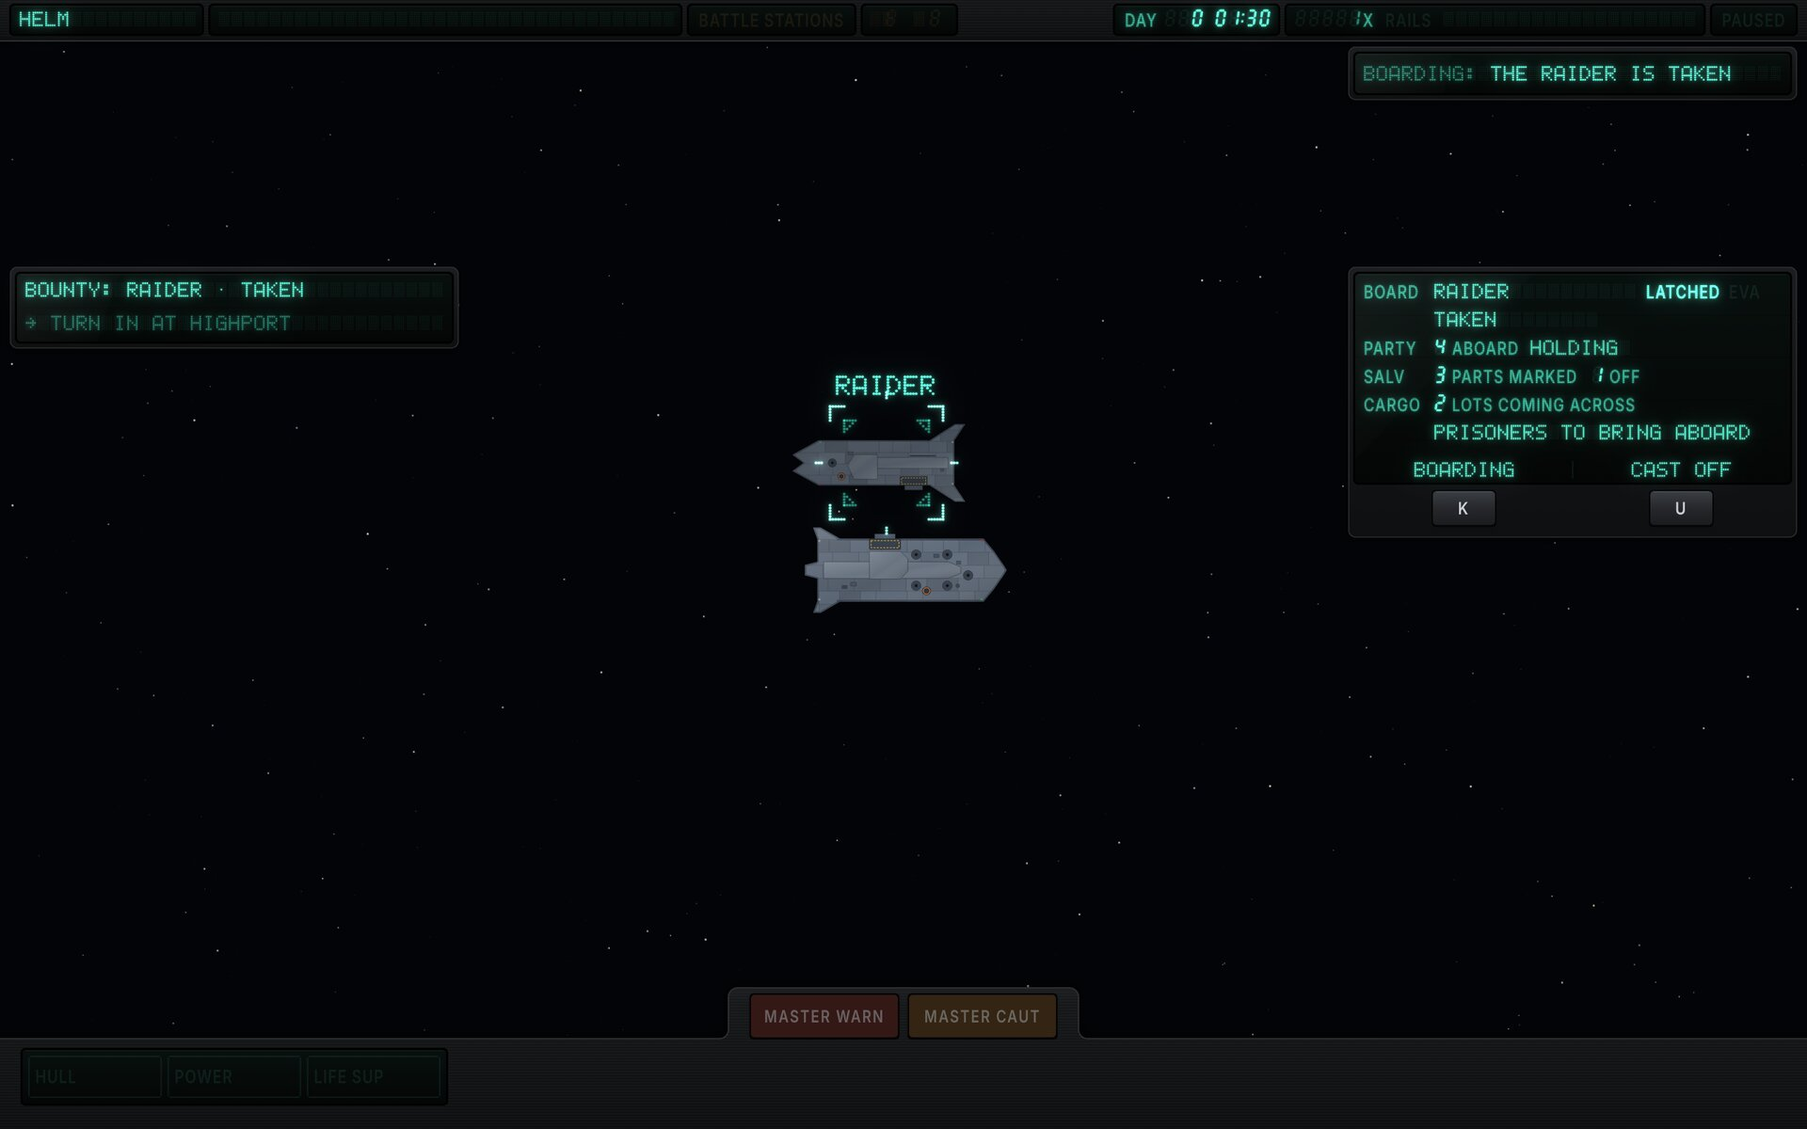
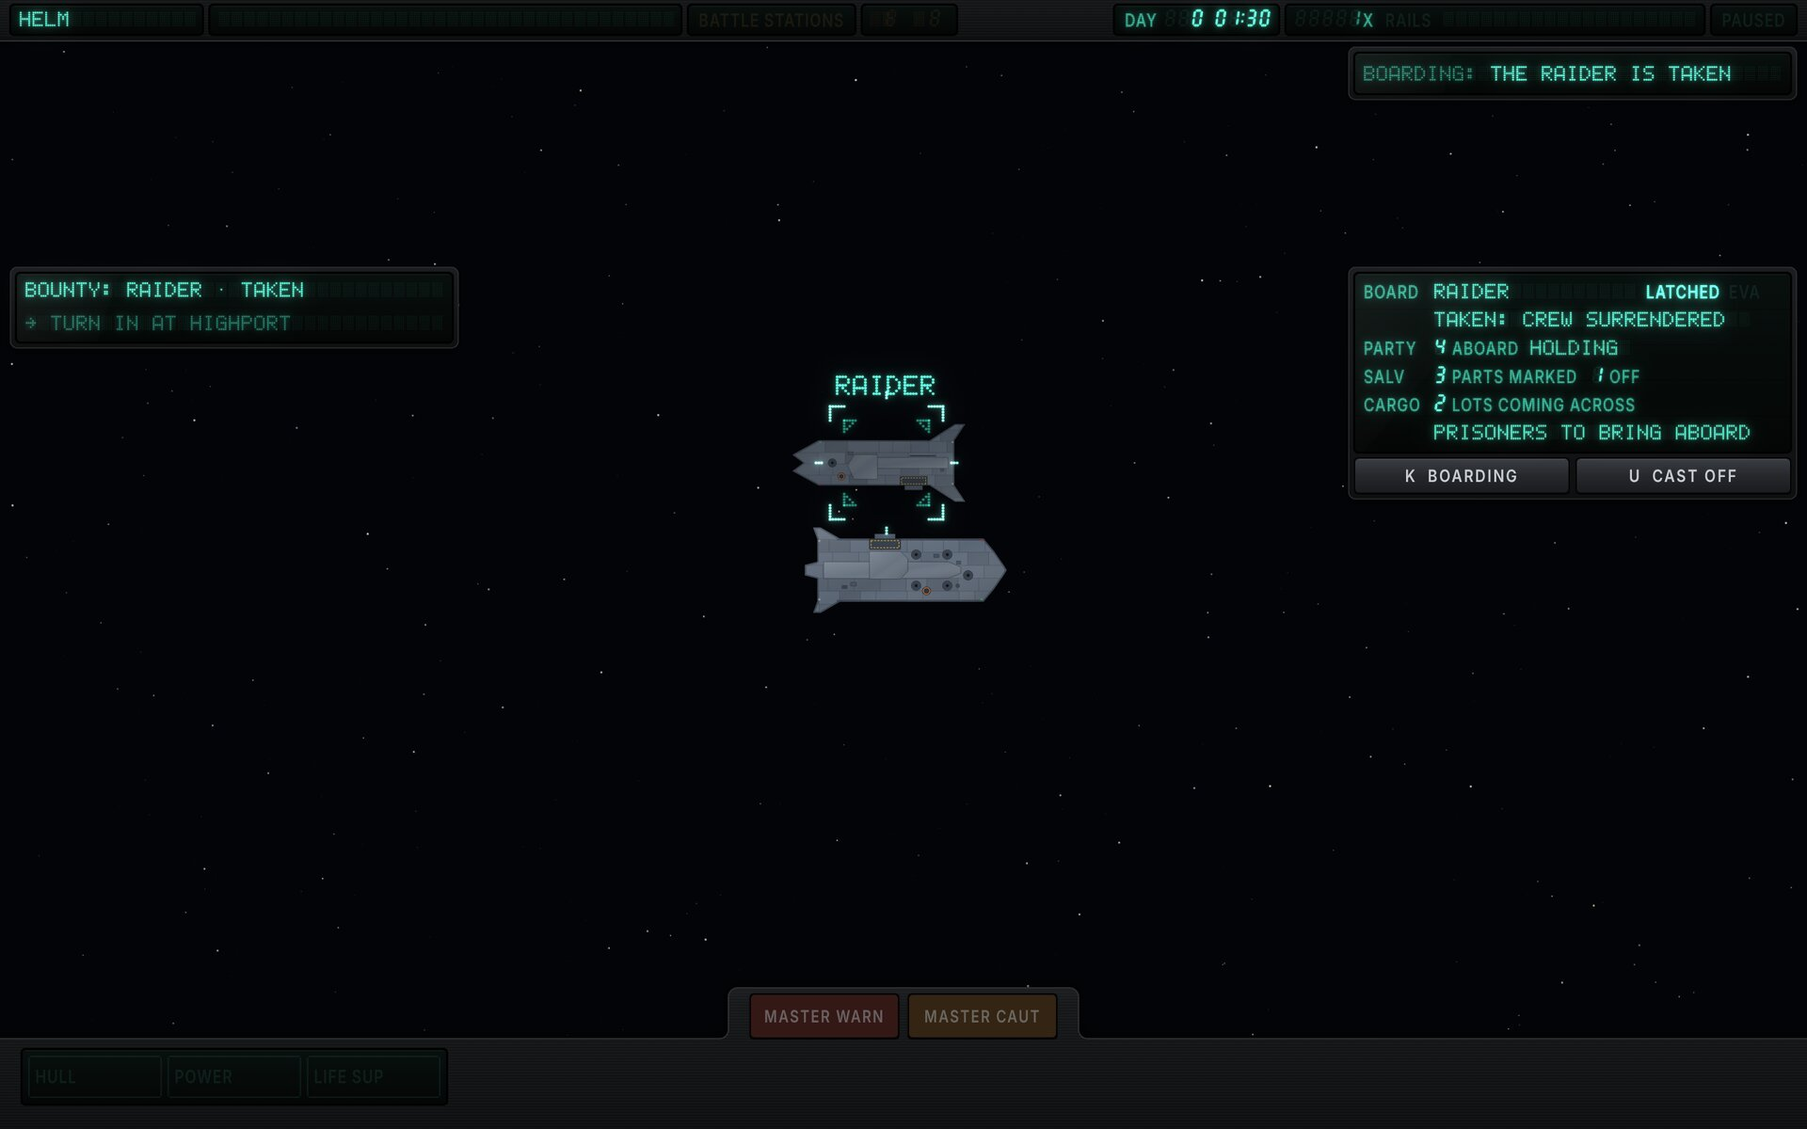
Round 3 of the FILAMENT variations: all three converge
Each spec took every round-2 note, so the variations follow the new
revisions and nothing meaningful is left to criticise:

- Stations (spec round 9): callouts capped at 50 characters, so E's
  Cole line is shorter; the blank slot and +n MORE placement already
  matched FILAMENT's.
- Task (spec round 5): short forms split at a double space, a reserved
  +n slot, screens below the band, the prompt naming its object once,
  all as FILAMENT already drew them.
- Context (spec version 5): P2 lists NO POWER DAMAGED third, X2's
  state has its own row, and X2's keys now carry their actions so the
  slab fits its 150-unit zone within the allowed 10%.

The round log and the three variation pages record the round.

Claude-Session: https://claude.ai/code/session_019poqwVjy4cV7sgFctDBjVK

Changed region(s): [[0.75, 0.4008, 1.0, 0.4625], [0.8438, 0.2775, 0.9688, 0.3083]]

diff --git a/documentation/ui-overhaul/vfd/src/context.js b/documentation/ui-overhaul/vfd/src/context.js
@@ -340,9 +340,10 @@
   }
 
   // ------------------------------------------------------------------ X2 boarding, X3 emergency
-  // X2: the boarding at a glance, and its two keys as soft keys: labels on the glass, rubber keys below.
+  // X2: the boarding at a glance in six rows of glass, and its two keys under it, each printed with its
+  // action as the station board's are (7 rows in all, 308 x 155: the spec's 150 within its 10%).
   function x2(S, y, d) {
-    const x = RX, rows = 6, gh = rows * ROW + 6 + 22, h = gh + 34;
+    const x = RX, rows = 6, gh = rows * ROW + 6, h = gh + 5 + 24;
     K.plate(S, x, y, CW, h, { pad: 5 });
     S.module(x, y, CW, gh, { radius: 2.5 });
     let ry = y + 3;
@@ -352,7 +353,7 @@
     S.dm(vx, B(ry) - 10.5, d.name, { pitch: P, cells: 16, level: 'norm' });
     K.fits(K.states(S, vx + 16 * CELL + 6, B(ry), [['LATCHED', d.latched && 'norm'], ['EVA', !d.latched && 'norm']], { size: 13, gap: 6 }) - 6, x + CW - 4, 'X2 board');
     ry += ROW;
-    S.dm(vx, B(ry) - 10.5, d.state, { pitch: P, cells: 13, level: 'norm' });
+    S.dm(vx, B(ry) - 10.5, d.state, { pitch: P, cells: 25, level: 'norm' });
     ry += ROW;
     lab('PARTY');
     let cx = vx + S.seg7(vx, B(ry) - 12, 12, d.party, { cells: 1, level: 'norm' }) + 6;
@@ -370,14 +371,10 @@
     S.legend(cx, B(ry), 'LOTS COMING ACROSS', { level: 'dim' });
     ry += ROW;
     S.dm(vx, B(ry) - 10.5, d.prisoners ? 'PRISONERS TO BRING ABOARD' : '', { pitch: P, cells: 25, level: 'norm' });
-    // soft keys: the action on the glass's bottom row, the key under it
-    const ky = y + gh + 6, ly = y + gh - 4 - 7 * P;
-    for (const [i, k, t] of [[0, 'K', 'BOARDING'], [1, 'U', 'CAST OFF']]) {
-      const sx = x + CW / 4 + i * CW / 2;
-      S.dm(sx - S.dmWidth(t.length, { pitch: P }) / 2, ly, t, { pitch: P, level: 'norm', ghost: false });
-      S.key(sx - 22, ky, 44, 24, k);
-    }
-    S.rectLit(x + CW / 2 - 0.4, ly - 1, 0.8, 7 * P + 2, { ghostOnly: true, k: 1.5 });
+    // the two keys under the glass, each printed with its key and action
+    const ky = y + gh + 5, kw = (CW - 6) / 2;
+    S.key(x, ky, kw, 24, 'K  BOARDING');
+    S.key(x + kw + 6, ky, kw, 24, 'U  CAST OFF');
   }
   // X3: a red bar with the state cut out of it; each way out on its own row, its key on the bezel beside
   // it with an LED that blinks amber while the first press holds (guide 7.7).
@@ -506,9 +503,9 @@
     p2(S, [
       { sev: 'warning', code: 'EMERG O2', you: true },
       { sev: 'warning', code: 'VACUUM', detail: 'HOLD', you: true },
+      { sev: 'warning', code: 'NO POWER', detail: 'DAMAGED', you: true },
       { sev: 'warning', code: 'CREW CRIT', detail: 'ADA', crew: 1, timer: '3:40' },
       { sev: 'warning', code: 'FIRE', detail: 'BRIDGE', crew: 2 },
-      { sev: 'warning', code: 'NO POWER', detail: 'STUNNED', back: '0:12' },
     ], '+1 MORE: SMOKE');
     x3(S, { title: 'SHIP DISABLED: NO POWER', rows: [
       { what: 'ABANDON SHIP', key: 'P' },
@@ -543,7 +540,7 @@
     bottomRack(S, { tower: false });
     p4(S, [['BOARDING', 'THE RAIDER IS TAKEN']]);
     p5(S, { l1: 'BOUNTY: RAIDER · TAKEN', l2: '→ TURN IN AT HIGHPORT' });
-    x2(S, 194, { name: 'RAIDER', latched: true, state: 'TAKEN', party: '4', partyState: 'HOLDING', marked: '3', off: '1', lots: '2', prisoners: true });
+    x2(S, 194, { name: 'RAIDER', latched: true, state: 'TAKEN: CREW SURRENDERED', party: '4', partyState: 'HOLDING', marked: '3', off: '1', lots: '2', prisoners: true });
     h4Lights(S, 16, 744, [['HULL'], ['POWER'], ['LIFE SUP']]);
     cue(S, 640, 705, {});
     S.finish();

diff --git a/documentation/ui-overhaul/vfd/src/stations.js b/documentation/ui-overhaul/vfd/src/stations.js
@@ -497,7 +497,7 @@
     // the top column: status strip, tiles in their zones, the ticker (warp strip dark)
     statusStrip(S, { condition: 'RED' });
     annRow(S, TOP.row1, [['MISSILE', '2  0:03']], [['HOSTILE', 'FIRING']], { warnOn: true, cautOn: true });
-    ticker(S, [null, { tag: 'TAC', text: 'COLE: HARPOONS OFF THE RAIDER, PORT SIDE. PD HAS THEM.' }, { tag: 'HELM', text: 'BEA: HOLDING POSITION.' }]);
+    ticker(S, [null, { tag: 'TAC', text: 'COLE: HARPOONS FROM PORT. PD HAS THEM.' }, { tag: 'HELM', text: 'BEA: HOLDING POSITION.' }]);
 
     // the band: SENSORS and DAMAGE open (no shield emitter, so the right MFD starts on DAMAGE), the cluster
     bandRack(S, true, true);

diff --git a/documentation/ui-overhaul/vfd/src/task.js b/documentation/ui-overhaul/vfd/src/task.js
@@ -436,7 +436,7 @@
       warning: { title: 'MISSILE', detail: '2 INBOUND  BRG 080', label: 'IMPACT', number: '14', unit: 'S', key: 'F', action: 'DECOY', note: 'POINT DEFENCE ENGAGING' },
       cautions: [
         { full: ['FIRE  HOLD', 'ADA ON IT'], short: ['FIRE HOLD', 'ADA'] },
-        { full: ['WOUNDED', 'COLE, NO MEDIC FREE'], short: ['WOUNDED COLE', ''] },
+        { full: ['WOUNDED', 'COLE, NO MEDIC FREE'], short: ['WOUNDED COLE', 'NO MEDIC'] },
       ],
     });
     obj(S, [{ title: "BOUNTY: RAIDER 'VEX'", left: '2d21h' }]);

diff --git a/documentation/ui-overhaul/variations/vfd-context.md b/documentation/ui-overhaul/variations/vfd-context.md
@@ -1,6 +1,6 @@
 # FILAMENT × Context-driven
 
-The context-driven functional design (`functional-context.md`, version 4) built in the FILAMENT style ([`style-vfd.md`](../style-vfd.md)). The spec decides what each widget shows, where and when; this page records how FILAMENT builds it, what the style changes beyond the look, and the critique of each round.
+The context-driven functional design (`functional-context.md`, version 5) built in the FILAMENT style ([`style-vfd.md`](../style-vfd.md)). The spec decides what each widget shows, where and when; this page records how FILAMENT builds it, what the style changes beyond the look, and the critique of each round.
 
 Mockups are drawn by [`vfd/src/context.js`](../vfd/src/context.js) over the game's hull art and a real deck capture; `vfd/src/export.sh` re-renders them.
 
@@ -14,11 +14,11 @@ Mockups are drawn by [`vfd/src/context.js`](../vfd/src/context.js) over the game
 
 ![Helm, combat](vfd/context-helm-combat.jpg)
 
-**11.7 Deck, emergency.** The corvette disabled, its reactor stunned and its hold airless. The emergency card offers the two ways out with their presses and costs; P2 lists, in order, what nobody is handling, what the crew are on, the power coming back in 12 s and `+1 MORE: SMOKE`; each hazard in view carries a tag; the captain's own kit is LCD; the master lamps stand alone at the bottom centre. The strip is on the dimmer bus.
+**11.7 Deck, emergency.** The corvette disabled, its reactor damaged and its hold airless. The emergency card offers the two ways out with their presses and costs; P2 lists, in order, what nobody is free to handle (emergency oxygen, the vacuum, the power), what the crew are on and `+1 MORE: SMOKE`; each hazard in view carries a tag; the captain's own kit is LCD; the master lamps stand alone at the bottom centre. The strip is on the dimmer bus.
 
 ![Deck, emergency](vfd/context-deck-emergency.jpg)
 
-**11.13 Boarding, latched.** The fight is over and the ship is latched to the beaten raider. The flight instruments have sunk into the rack and only the shelf with the master lamps stands proud; X2 names the raider and the party's work, with `K` and `U` as soft keys under it; the objective has the bounty's next step.
+**11.13 Boarding, latched.** The fight is over and the ship is latched to the beaten raider. The flight instruments have sunk into the rack and only the shelf with the master lamps stands proud; X2 names the raider, its state and the party's work, with its two keys under the glass; the objective has the bounty's next step.
 
 ![Boarding, latched](vfd/context-boarding.jpg)
 
@@ -37,7 +37,7 @@ Mockups are drawn by [`vfd/src/context.js`](../vfd/src/context.js) over the game
 | H4 ship condition | Compact face: a lamp cell per light on the rack's left wing (hardware, always there; three on a hull with no shield emitter). Expanded face: a slab above them with the ship's own plan on a graphic dot panel and a row per light, pips leading |
 | H5 contact scope | Collapsed: a key on the right wing with the count beyond 50 km. Open: a round pod with a plotting scope and its zoom keys |
 | H6, H7 lock and armament | Slabs in R-MID. H6: the state in one word (`HOSTILE` behind red), `FIRING ON YOU` as its own red flag, range with closing or opening, time of flight and hit chance with its word. H7: guns, missiles and shields as rows of fixed state words |
-| X2 boarding | A slab where the station panel would be: the target, `LATCHED` or `EVA`, the party, salvage and cargo, with the two actions as soft keys (legends on the glass's bottom row, rubber keys under it) |
+| X2 boarding | A slab where the station panel would be: six rows of glass (the target with `LATCHED` or `EVA`, its state, the party, salvage, cargo, prisoners), then two keys under the glass printed with their key and action, `K  BOARDING` and `U  CAST OFF`, as the station board's keys are |
 | X3 emergency | A slab under P3 headed by a red bar with the state cut out of it; each way out on its own row with its cost, its key on the bezel beside it with an LED that blinks while the first press holds |
 | D1 captain vitals | Reflective LCD, backlit while it warns |
 | D3 hazards | Projected tags on each hazard in view (red `♦` warning, amber `▲` caution); edge pointers for the rest |
@@ -66,11 +66,19 @@ The mockups were rebuilt against version 4: P2's fixed-field rows with handling 
 
 No meaningful criticism of the visual build remains open. The notes below are functional.
 
+## Round 3
+
+Version 5 took all four round-2 notes: X2 has seven rows with the state on its own; X3 waits while power is due back by itself, and 11.7's reactor is now damaged, so `NO POWER  DAMAGED  YOU` sits third in P2, after the vacuum; the master alert cue stays lit under X3; the delivery is 40 food and P3 reads `T-4 S`. The mockups follow: P2 reordered, X2's state row reads `TAKEN: CREW SURRENDERED`.
+
+One fix from this round's check of version 5: X2 with its soft-key row was 182 units tall against the zone's 150 (the spec allows 10%). Its keys now carry their actions printed on them, under the glass, as the station board's do, so the slab is 155.
+
+Nothing meaningful remains to criticise, visually or functionally: this variation has converged. It reopens if the spec changes something visible.
+
 ## Functional notes sent to the context designer
 
 Round 1 (all answered by version 3): keep P2 lit under X3, decoys have no stock, shields as a share, on-screen hazard tags for D3, states as one word.
 
-Round 2:
+Round 2 (all taken in version 5):
 
 1. **X2's state line overflows.** Its worst case (the target, `LATCHED`, the party's activity and the salvage) runs past 34 characters at 12.4's sizes. FILAMENT gives the party, salvage and cargo a row each (seven rows). Suggest the spec size X2 for that.
 2. **X3 offers costly exits while power is coming back.** In 11.7 P2 says power is back in 12 s while X3 offers abandon ship and a 3,400 cr tow. Suggest X3 wait while a recovery timer runs, or show the time beside the choices.

diff --git a/documentation/ui-overhaul/variations/vfd-task.md b/documentation/ui-overhaul/variations/vfd-task.md
@@ -1,6 +1,6 @@
 # FILAMENT × Task-driven
 
-The task-driven functional design (`functional-task.md`, round 4) built in the FILAMENT style ([`style-vfd.md`](../style-vfd.md)). The spec decides what each widget shows, where and when; this page records how FILAMENT builds it, what the style changes beyond the look, and the critique of each round.
+The task-driven functional design (`functional-task.md`, round 5) built in the FILAMENT style ([`style-vfd.md`](../style-vfd.md)). The spec decides what each widget shows, where and when; this page records how FILAMENT builds it, what the style changes beyond the look, and the critique of each round.
 
 Mockups are drawn by [`vfd/src/task.js`](../vfd/src/task.js) over the game's hull art and a real deck capture; `vfd/src/export.sh` re-renders them.
 
@@ -53,7 +53,7 @@ The other two FILAMENT variations are built like consoles: racks along the edges
 - **The band's colours are places.** The warning window is red glass and the caution row amber glass, so the band's rows can't swap. With only cautions standing, the red window stays as dark glass and the cautions keep their row (the spec says so too, from round 3).
 - **Tell-tales.** The annunciator's lamps carry icons, so the block is learned by shape as well as position and word, and an advisory (crew outside) reads as normal because it lights without a frame.
 - **The hint line is printed.** It can't fade like a text line, so its words go dark one by one as they're learned, and the strip is as long as what it holds.
-- **The band is bigger than Z2.** At the guide's minimum sizes the message centre is 600 × 96 (the spec's Z2 is 560 × 76), so screens start 112 units down rather than 100.
+- **The band is taller than Z2.** At the guide's minimum sizes the message centre is 600 × 96, inside Z2's 640-unit width with its bezel, so screens start 112 units down; the spec lets a screen start below the band wherever a style puts it (round 5).
 
 ## Round 1 critique (resolved in round 2)
 
@@ -74,11 +74,17 @@ The mockups were redrawn against spec round 4: four FLT modes, `ASSIST OFF` only
 
 No meaningful criticism of the visual build remains open. The notes below are functional.
 
+## Round 3
+
+Spec round 5 took all four round-2 notes: every short form is two parts joined by a double space, each within 19 characters, which a style may break into two lines; `+n` has a reserved slot at the end of the caution row; a screen starts below the band wherever the style puts it; the prompt names its object once (`Weapons console   V sit`). Each matches what FILAMENT already drew, so the screens are unchanged; the one sample that moved (`WOUNDED Cole  no medic`) shows its full text in the mockup.
+
+Nothing meaningful remains to criticise, visually or functionally: this variation has converged. It reopens if the spec changes something visible.
+
 ## Functional notes sent to the task designer
 
 Round 1 (all answered by spec rounds 2 and 3): SCH at gunnery, WPN under the key strip, speed at rest in the orbit frame, decoys have no stock, cautions keep their row, room names from the chassis.
 
-Round 2:
+Round 2 (all taken in round 5):
 
 1. **The short form's double space is a line break.** FILAMENT's caution cells are two lines of 19 characters, and they split each alert at the short form's double space (`FIRE Hold  Cole`, `POWER Bridge  Ada`): what and where above, who or the key below. Suggest the spec keep that double space in every short form, as it does now.
 2. **`+n more` has no place in Z2.** ALR says `+n more` shows when there are more than three cautions, but Z2's wireframe has no room for it, so it would push or cover the third cell. FILAMENT gives it a narrow fourth cell (44 units). Suggest the wireframe reserve it.

diff --git a/documentation/ui-overhaul/variations/vfd-rounds.md b/documentation/ui-overhaul/variations/vfd-rounds.md
@@ -4,11 +4,21 @@ Each round, the three FILAMENT variations ([stations](vfd-stations.md), [context
 
 | Variation | Spec version used | Status after the latest round |
 |---|---|---|
-| Ship stations | `functional-stations.md` round 8 | Round 2 done. No visual criticism open; one functional note with the designer (callout length) |
-| Context-driven | `functional-context.md` version 4 | Round 2 done. No visual criticism open; four functional notes with the designer |
-| Task-driven | `functional-task.md` round 4 | Round 2 done. No visual criticism open; four functional notes with the designer |
+| Ship stations | `functional-stations.md` round 9 | Converged in round 3: the spec took the last note, nothing left to criticise |
+| Context-driven | `functional-context.md` version 5 | Converged in round 3: the spec took all four notes, nothing left to criticise |
+| Task-driven | `functional-task.md` round 5 | Converged in round 3: the spec took all four notes, nothing left to criticise |
 
-A round 3 happens for a variation when its spec changes something visible, or a designer's answer to a note does.
+A variation that has converged reopens when its spec changes something visible, or a designer's answer to a note does.
+
+## Round 3
+
+**Stations** (spec round 9). The designer took the callout note (50 characters after the station tag, wrapped or scrolled by the style, never cut) and adopted FILAMENT's blank slot for missing hardware and its `+n MORE` on the last tile to fill. E's Cole line is now 38 characters; the weapons screen is re-rendered with it. Converged.
+
+**Task** (spec round 5). The designer took all four notes: short forms in two parts at a double space, each within 19 characters; a reserved `+n` slot (Z2 is 640 wide); a screen starts below the band wherever the style puts it; the prompt names its object once. Each matches what FILAMENT already drew, so no screen changed. Converged.
+
+**Context** (spec version 5). The designer took all four notes: X2's state on a row of its own; X3 waits while power is due back by itself, and 11.7's reactor is damaged instead, so P2 lists `NO POWER  DAMAGED  YOU` third; the master cue stays lit under X3; the sample data. The deck emergency and boarding screens are re-rendered with them. Checking against version 5 found X2 at 182 units against a 150 zone (10% allowed); its keys now carry their actions printed on them, so it is 155. Converged.
+
+All three FILAMENT variations have converged: each spec has taken every note, and no meaningful criticism remains.
 
 ## Round 2
 

diff --git a/documentation/ui-overhaul/variations/vfd-stations.md b/documentation/ui-overhaul/variations/vfd-stations.md
@@ -1,6 +1,6 @@
 # FILAMENT × Ship stations
 
-The ship-stations functional design (`functional-stations.md`, round 8) built in the FILAMENT style ([`style-vfd.md`](../style-vfd.md)). The spec decides what each widget shows, where and when; this page records how FILAMENT builds it, what the style changes beyond the look, and the critique of each round.
+The ship-stations functional design (`functional-stations.md`, round 9) built in the FILAMENT style ([`style-vfd.md`](../style-vfd.md)). The spec decides what each widget shows, where and when; this page records how FILAMENT builds it, what the style changes beyond the look, and the critique of each round.
 
 Mockups are drawn by [`vfd/src/stations.js`](../vfd/src/stations.js) over real game captures and the game's own hull art; `vfd/src/export.sh` re-renders them.
 
@@ -61,10 +61,16 @@ The mockups were redrawn against spec round 8: the corvette's real mounts (coilg
 
 No meaningful criticism of the visual build remains open. The note below is functional.
 
+## Round 3
+
+Spec round 9 took the round-2 note: a callout is at most 50 characters after the station tag, the speaker's name included, and a longer one is the style's to wrap or scroll, never to cut. E's line is now "Cole: harpoons from port. PD has them." (38), and the mockup carries it. The spec also adopted FILAMENT's two choices: a slot for a system the hull lacks is blank with no legend, and `+n MORE` goes on the last tile to fill, so warnings and cautions may fill from opposite lamps.
+
+Nothing meaningful remains to criticise, visually or functionally: this variation has converged. It reopens if the spec changes something visible.
+
 ## Functional notes sent to the stations designer
 
 Round 1 (all taken in round 6): one annunciator row with `+n MORE`, SHIP callouts that don't restate tiles, the station board dim in Green.
 
-Round 2:
+Round 2 (taken in round 9):
 
 1. **Callouts need a length.** FILAMENT's ticker holds 54 characters after the station tag at pitch 2; E's line "Cole: harpoons off the Raider, port side. PD has them." is exactly 54. Suggest 13.5 cap a callout at about 50 characters with the speaker's name counted, and say what happens past it (FILAMENT marquees it, one cell at a time with a hold at each end).

diff --git a/documentation/ui-overhaul/style-vfd.md b/documentation/ui-overhaul/style-vfd.md
@@ -342,7 +342,7 @@ The symbology over the outside view is written by a dot-matrix projector, the de
 
 ### 9.3 Scrolling
 
-- Text that overflows its field marquees one cell at a time, 8 cells a second, with a 1 s hold at each end. Only in the focused row or a ticker line. Writers keep a ticker's callouts within its width (54 cells on the stations ticker), so the marquee is the exception.
+- Text that overflows its field marquees one cell at a time, 8 cells a second, with a 1 s hold at each end. Only in the focused row or a ticker line. Writers keep a ticker's callouts within its width (54 cells on the stations ticker, whose spec caps a callout at 50 characters), so the marquee is the exception.
 - Lists move by whole rows and pages.
 
 ### 9.4 Attention without motion
